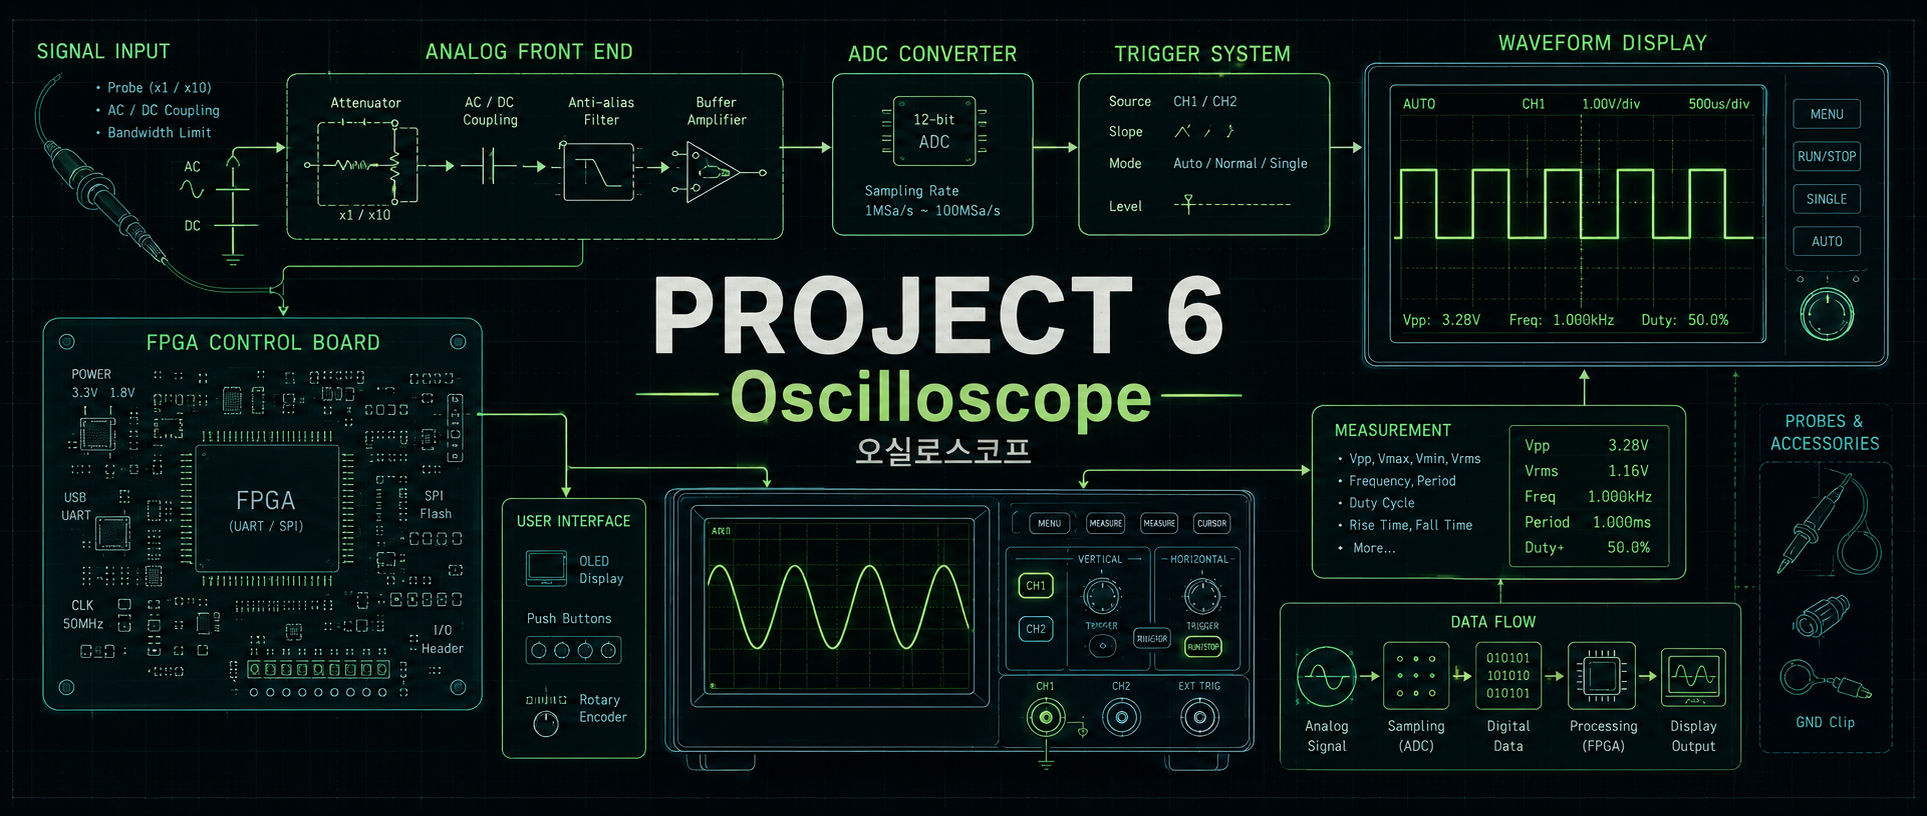
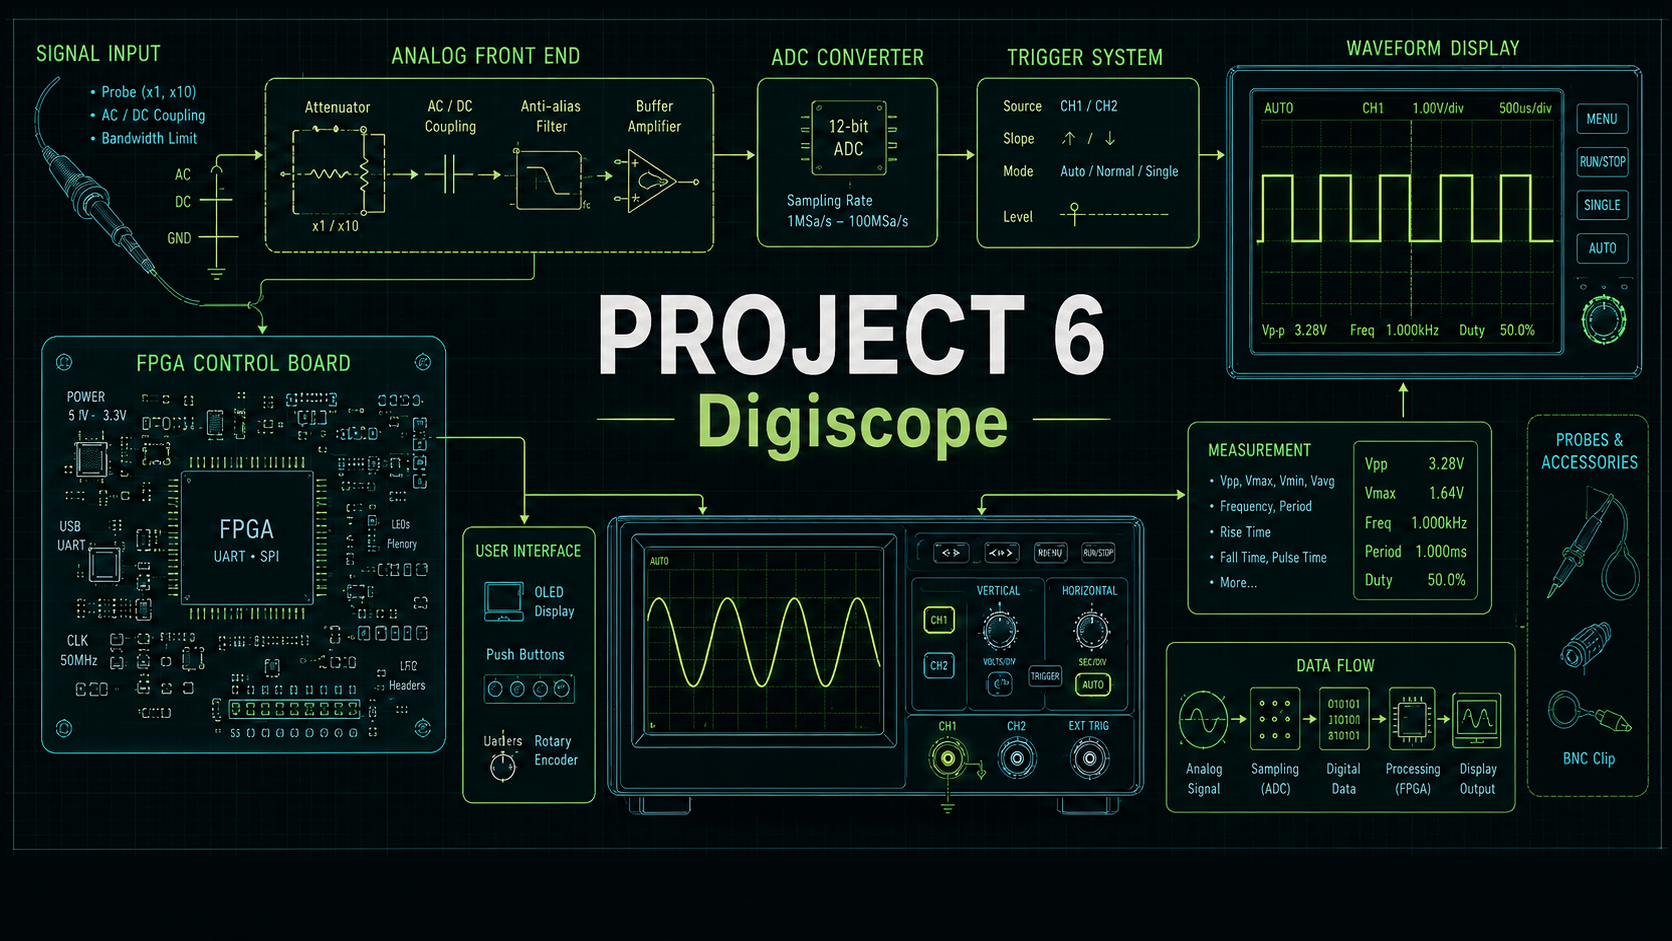
Update README for clarity and consistency; modify title image

Changed region(s): [[0.0, 0.0306, 0.9952, 0.9498], [0.2488, 0.8885, 0.2799, 0.9191], [0.2488, 0.3676, 0.2799, 0.3983]]

diff --git a/README.md b/README.md
@@ -5,27 +5,27 @@
 # 📈 Project 6 DIGISCOPE
 
 ## **1. Project Summary (프로젝트 요약)**
-Basys3(Artix-7 FPGA)와 MicroBlaze RISC-V 소프트 프로세서를 기반으로 PWM 신호를 생성·측정하여 TFT LCD에 파형을 실시간으로 표시하는 디지털 오실로스코프(DIGISCOPE) 구현
+Basys3(Artix-7 FPGA)와 Custom IP를 기반으로 PWM 신호를 생성·측정하여 TFT LCD에 파형을 실시간으로 표시하는 디지털 오실로스코프(DIGISCOPE) 구현
 
 
 ## 2. Key Features (주요 기능)
 
-### 📡 PWM 신호 생성 (Signal Generation)
+### 📡 Signal Generation (PWM 신호 생성) 
 - UART 명령(`p(Period us)`, `d(Duty %)`)으로 주기 및 듀티 사이클 실시간 조정
 - SW[0] 스위치로 PWM 파형 출력 ON/OFF 제어
 
-### 📊 PWM 신호 측정 (Signal Measurement)
+### 📊 Signal Measurement (PWM 신호 측정) 
 - 입력 PWM 신호의 주기(period), HIGH 시간(high count)을 클럭 카운트로 측정
 - 주파수(Hz) 및 듀티(%) 계산은 MicroBlaze RISC-V(C 코드)에서 수행
 
-### 🖥️ TFT LCD 오실로스코프 화면 (Oscilloscope Display)
-- 320×240 해상도, 10×8 그리드 구성
+### 🖥️ Waveform Display (파형 표시)
+- 320×240 TFT LCD에 PWM 파형을 실시간 렌더링
 - 전압 스케일: 1V / 3.3V / 5V per div
 - 시간 스케일: 100µs / 500µs / 1ms / 5ms per div
 - RUN / STOP 모드 전환
 - Dark / White 테마 전환
 
-### ⌨️ 버튼 제어 (Button Control)
+### ⌨️ Button Control (버튼 제어)
 | 버튼 | 기능 |
 | :---: | :---: |
 | BTN0 | 전압 스케일 변경 (V/div) |
@@ -33,10 +33,11 @@ Basys3(Artix-7 FPGA)와 MicroBlaze RISC-V 소프트 프로세서를 기반으로
 | BTN2 | RUN / STOP 전환 |
 | BTN3 | Dark / White 테마 전환 |
 
-### 💬 CLCD 상태 표시 (16×2 Character LCD)
+### 💬 Status Display (상태 표시)
+CLCD 에 현재 측정값 및 설정값을 텍스트로 표시
 ```
-[R] H:500u V:1V     ← 모드, 시간스케일, 전압스케일
-[D] F:1.0k D:50%    ← 테마, 주파수, 듀티
+[R] H:500u V:1V     ← RUN/STOP 모드, 시간 스케일, 전압 스케일
+[D] F:1.0k D:50%    ← Dark/White 테마, 측정 주파수, 측정 듀티
 ```
 
 
@@ -114,7 +115,7 @@ Project_6_Oscilloscope/
 
 ## 🔌 5. Custom IP Description (커스텀 IP 설명)
 
-### 5.1 myip_pwm_1_0 — PWM 생성 및 측정 IP
+### 5.1 PWM Generate & Measure IP (PWM 생성 및 측정 IP)
 
 | 역할 | 설명 |
 | :--- | :--- |
@@ -133,7 +134,7 @@ Project_6_Oscilloscope/
 | 0x10 | measured_period_cnt | R | 측정된 PWM 주기 카운트 |
 | 0x14 | measured_high_cnt | R | 측정된 PWM HIGH 카운트 |
 
-### 5.2 myip_tft_lcd_cntr_1_0 — TFT LCD SPI 제어 IP
+### 5.2 TFT LCD SPI Control IP (TFT LCD SPI 제어 IP)
 
 | 역할 | 설명 |
 | :--- | :--- |
@@ -153,7 +154,7 @@ Project_6_Oscilloscope/
 
 > **동작 순서:** CMD / X / Y / COLOR 레지스터 설정 → CTRL[0]=1 write → busy=0 & done=1 확인
 
-### 5.3 CLCD_1_0 — Character LCD 제어 IP
+### 5.3 CLCD Control IP (CLCD 제어 IP)
 
 | 역할 | 설명 |
 | :--- | :--- |
@@ -185,7 +186,7 @@ Project_6_Oscilloscope/
 
 ## 🏁 7. Final Product & Demonstration (완성품 및 시연)
 
-### 7.1 Oscilloscope Screen Capture (오실로스코프 화면)
+### 7.1 Final Product (완성품)
 
 | **RUN 모드** | **White 테마** |
 | :---: | :---: |
@@ -201,68 +202,81 @@ Project_6_Oscilloscope/
 
 <br>
 
+### 7.2  Demonstration (시연 영상)
+
+<a href="https://youtube.com/playlist?list=PL6xfXHA4BYR-J2YdupXh5K9cHNIxC0NS_&si=U47yTLVHOldbWqq0" target="_blank">
+  <img src="images/youtube.jpg" alt="Watch Demo Video" width="300" />
+</a>
+
+*이미지를 클릭하면 시연 영상(유튜브)로 이동합니다.*
+
+
+
+
 
 ## 8. Troubleshooting (문제 해결 기록)
 
-### 8.1 TFT LCD 초기화 타이밍 오류 (TFT Init Timing Error)
+### 8.1 Official Datasheet vs Custom IP Mismatch (공식 데이터시트와 Custom IP 불일치)
 
 🔍 **Issue (문제 상황)**
 
-- Vitis 애플리케이션 시작 직후 TFT LCD에 화면이 출력되지 않거나 화면이 깨지는 현상 발생
+- HD44780 표준 초기화와 Custom IP 구조 불일치
 
 ❓ **Analysis (원인 분석)**
 
-- MicroBlaze RISC-V가 TFT IP에 명령을 보낼 때, ILI9341 LCD 컨트롤러의 초기화 시퀀스가 아직 완료되지 않은 상태에서 픽셀 명령이 전송됨
-- AXI 버스 전송 속도가 LCD SPI 초기화 속도보다 빠른 것이 원인
+- HD44780 표준 초기화 방식과 FPGA 기반 Custom IP 내부 동작 구조 불일치 발생
+- FSM 내부 200ms 대기 및 High/Low Nibble 분리 전송 방식 확인
 
 ❗ **Action (해결 방법)**
 
-- TFT IP의 CTRL 레지스터에 `INIT` 비트를 추가하여, LCD SPI 초기화가 완료된 후에만 1이 되도록 HW 설계
-- Vitis C 코드에서 `TFT_WaitInit()` 함수로 `INIT` 비트가 1이 될 때까지 폴링 후 명령 전송 시작
+- 초기화 단계별 추가 Delay 제거 후 초기 전원 안정화(50ms)만 유지
+- 기존 8bit 초기화 방식 (0x30→0x20)을 IP 구조에 맞게 4bit 초기화 방식 (0x32)로 변경
 
 ✅ **Result (결과)**
 
-- LCD 초기화 완료 이후에만 픽셀 명령이 전송되어 화면 깨짐 현상 해결
+- Custom IP 구조와 초기화 시퀀스를 일치시켜 LCD 초기화 성공
+- Vitis 단계에서 불필요한 대기 제거
 
 ---
 
-### 8.2 PWM 듀티 계산 타이밍 에러 (Duty Calculation Timing Error)
+### 8.2 SPI Bit Timing Transmission Error (SPI 통신 비트 타이밍 전송 오류)
 
 🔍 **Issue (문제 상황)**
 
-- Verilog 내부에서 `duty_count = period_count × duty_percent / 100` 연산 시 Vivado에서 타이밍 에러(Timing Violation) 발생
+- 전원과 SPI통신은 정상 확인되나 LCD가 빨간색 화면으로 전환되지 않음
 
 ❓ **Analysis (원인 분석)**
 
-- 32비트 나눗셈 연산으로 인해 조합 논리 경로(Combinational Logic Path)가 길어져, 100MHz 클럭의 단일 사이클 내에 연산을 완료하지 못함
+- 마지막 bit 전송 전 CS가 해제되어 초기화 명령이 손실되는 문제 확인
 
 ❗ **Action (해결 방법)**
 
-- Verilog에서 나눗셈 연산을 완전히 제거
-- `period_count`와 `duty_count`를 AXI 레지스터로 직접 받아 사용하는 구조로 변경
-- 듀티 계산은 Vitis C 코드(`uint64_t` 연산)에서 수행 후 계산된 카운트 값을 AXI register에 write
+- SPI TX FSM 수정 후 SCK rising edge 8회 발생을 보장
+- Sleep Out → Display ON → RED Fill 초기화 순서를 재구성
 
 ✅ **Result (결과)**
 
-- Timing Closure 달성 및 100MHz 동작 안정화
+- TFT LCD 초기화 완료 및 전체 RED 화면 출력 검증
 
 ---
 
-### 8.3 PWM 측정 정확도 문제 (Measurement Accuracy)
+### 8.3 TFT LCD Flickering & Button Response Delay (TFT LCD 깜빡임 및 버튼 응답 지연)
 
 🔍 **Issue (문제 상황)**
 
-- 낮은 듀티(0% 근처) 또는 높은 듀티(100% 근처) 설정 시 측정값이 갱신되지 않거나 0으로 표시되는 현상
+- TFT 화면 깜빡이며 버튼의 입력이 무시되는 현상이 발생
 
 ❓ **Analysis (원인 분석)**
 
-- 측정 로직이 rising/falling edge 발생을 기반으로 동작하기 때문에, 듀티가 0%에 가까우면 falling edge가 거의 발생하지 않고, 100%에 가까우면 falling edge 자체가 없음
+- TFT가 매 갱신마다 Fill -> Grid -> Wave를 전체 다시 그리는 구조 사용
+- Pixel 단위 Busy 대기로 CPU 점유율이 증가하여 화면 깜빡임과 버튼 지연 발생
 
 ❗ **Action (해결 방법)**
 
-- Vitis 애플리케이션에서 `period_count == 0` 조건을 감지하여 측정값을 보호 처리
-- 입력 미연결 또는 측정 초기 상태에서는 `period_us`를 기본값 1000µs로 설정하여 화면이 빈 상태로 표시되는 문제 방지
+- `Redraw` 플래그를 적용하여 필요한 경우에만 TFT 갱신
+- RUN 상태에서 약 1.5초 주기 갱신 및 버튼 디바운싱 적용
 
 ✅ **Result (결과)**
 
-- 엣지 케이스에서도 오실로스코프 화면이 정상적으로 표시되고, CLCD 수치가 0으로 깨지는 현상 해결
+- 불필요한 TFT 재렌더링 감소 및 버튼 입력 안정성 향상
+- 주기 제어 기반 화면 출력 안정화